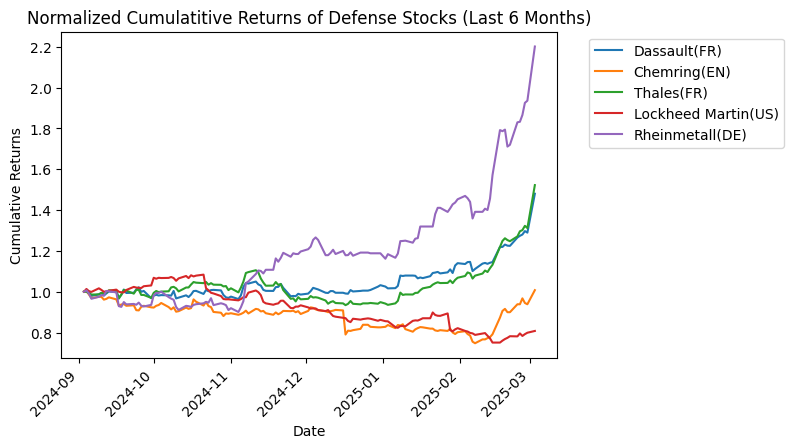
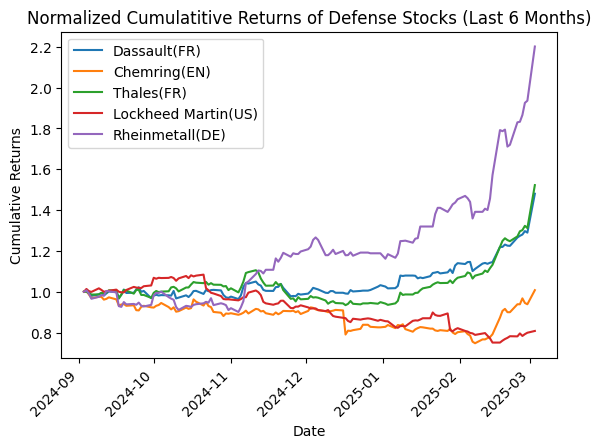
Update plots

diff --git a/analysis.py b/analysis.py
@@ -28,7 +28,7 @@ plt.title("Cumulatitive Returns of Defense Stocks")
 plt.xlabel("Date")
 plt.xticks(rotation=45)
 plt.ylabel("Cumulative Returns")
-plt.legend(bbox_to_anchor=(1.05, 1), loc='upper left')
+plt.legend(loc='upper left')
 plt.show()
 
 cumulative_ret_6_months = cumulative_returns.loc[cumulative_returns.index >= cumulative_returns.index[-1] - pd.DateOffset(months=6)]
@@ -40,7 +40,7 @@ plt.title("Normalized Cumulatitive Returns of Defense Stocks (Last 6 Months)")
 plt.xlabel("Date")
 plt.xticks(rotation=45)
 plt.ylabel("Cumulative Returns")
-plt.legend(bbox_to_anchor=(1.05, 1), loc='upper left')
+plt.legend(loc='upper left')
 plt.show()
 
 

diff --git a/README.md b/README.md
@@ -36,7 +36,7 @@ During the period of the Analysis (March 2023 to March 2025), several factors in
 *The growth of European defense stocks can be partly attributed to their focus on emerging technologies. The analyzed companies have made significant investments in areas such as AI, cybersecurity, and autonomous systems, which are becoming increasingly crucial in modern defense strategies*
 
 ## Normalized Returns (Last 6 Months)
-![Normalized Cumul 6 Months](image-1.png)
+![Normalized Cumul Returns 6 Months](image-1.png)
 
 **1. Divergence**
 
